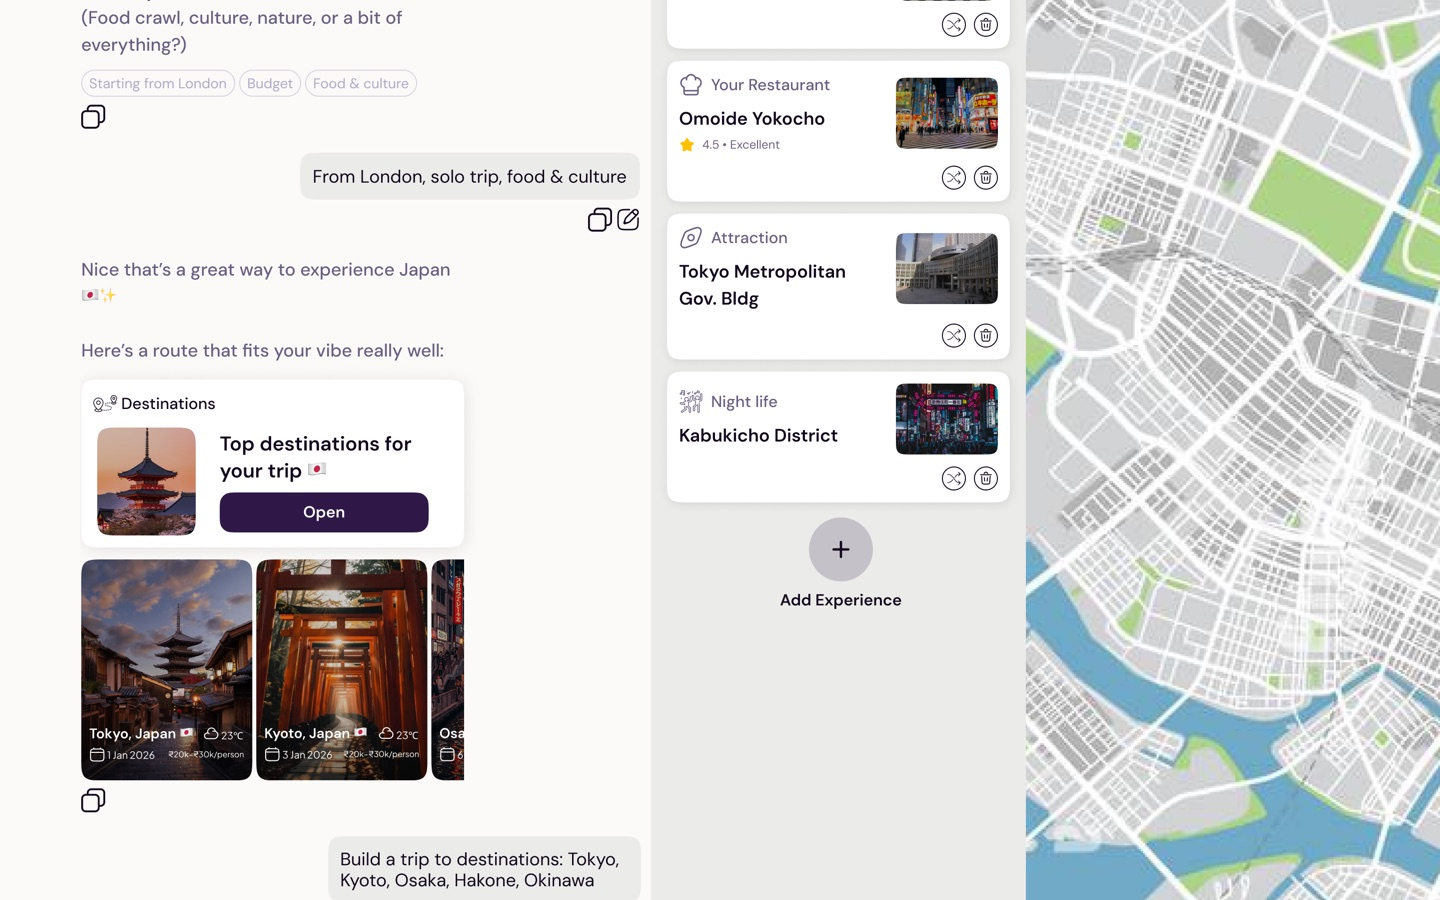
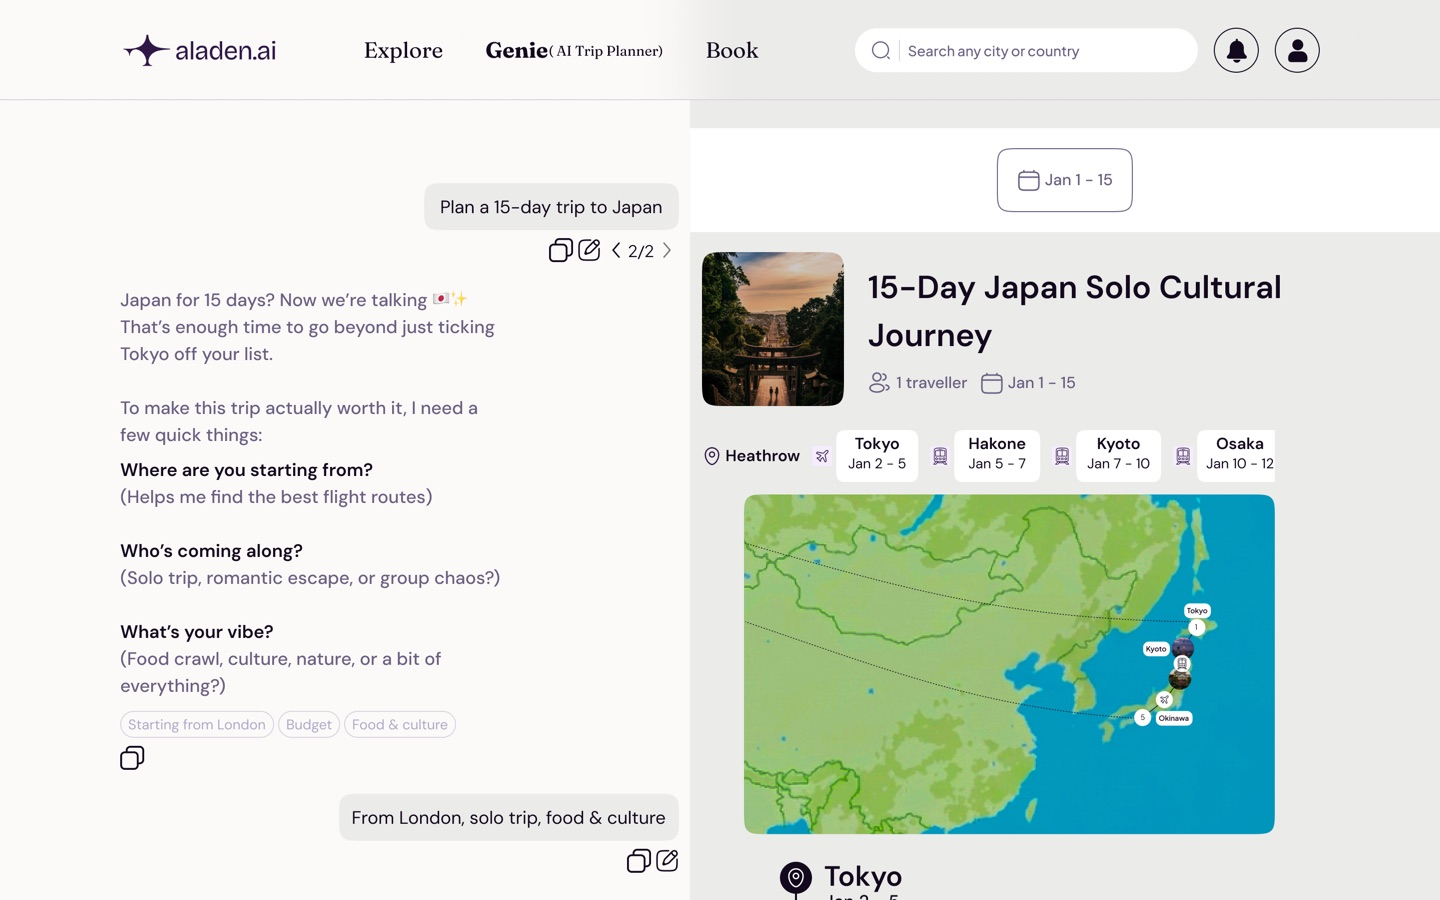
Aladdin: video hero, keep only finished-trip stills, drop prototype link

diff --git a/aladdin.html b/aladdin.html
@@ -60,13 +60,14 @@
         </dl>
       </div>
 
-      <figure class="cs-figure cs-figure--wide">
-        <div class="cs-phones">
-          <div class="cs-device"><img src="work/aladdin/chat.jpg" alt="Genie chat: user asks for a 15-day trip to Japan, Genie asks where they are starting from, who is coming and what their vibe is, with tap-to-answer chips, then offers a destinations card" loading="eager" /></div>
-          <div class="cs-device"><img src="work/aladdin/destinations.jpg" alt="Select destinations screen with Relaxed, Balanced and Fast route options and a stack of destination cards for Tokyo, Kyoto, Osaka, Hakone and more, each with a Select button" loading="eager" /></div>
-          <div class="cs-device"><img src="work/aladdin/overview.jpg" alt="Trip view with a route map at the top and a 15-day itinerary overview listing each day's stops" loading="eager" /></div>
+      <figure class="cs-figure cs-figure--hero">
+        <div class="cs-video-wrap">
+          <video class="cs-video" src="work/aladdin/genie-flow.mp4" poster="work/aladdin/genie-poster.jpg" muted loop playsinline preload="none" aria-label="Screen recording of the Genie prototype: planning a 15-day Japan trip from the first chat message to the finished bookable itinerary"></video>
+          <button type="button" class="cs-video-play" aria-label="Play the prototype walkthrough">
+            <svg width="22" height="22" viewBox="0 0 24 24" fill="currentColor" aria-hidden="true"><path d="M8 5v14l11-7z"/></svg>
+          </button>
         </div>
-        <figcaption>Ask, choose, get a trip. Chat, destination selection and the itinerary overview on iOS. Scroll inside each screen to see the full flow.</figcaption>
+        <figcaption>Eighty seconds through the prototype: one line of intent, three quick questions, a visa check, destinations, stays and routes, and a finished trip ready to book.</figcaption>
       </figure>
     </section>
 
@@ -121,60 +122,32 @@
       </div>
     </section>
 
-    <!-- ================= FLOW VIDEO ================= -->
-    <section class="cs-section" id="flow">
-      <div class="cs-wrap">
-        <h2 class="cs-h2"><span class="cs-num">03</span>The flow, start to finish</h2>
-        <p>Eighty seconds through the prototype: one line of intent, three quick questions, a visa check, destinations, stays and routes, and a finished trip ready to book. The rest of this page explains the decisions behind it.</p>
-      </div>
-      <figure class="cs-figure">
-        <div class="cs-video-wrap">
-          <video class="cs-video" src="work/aladdin/genie-flow.mp4" poster="work/aladdin/genie-poster.jpg" muted loop playsinline preload="none" aria-label="Screen recording of the Genie prototype: planning a 15-day Japan trip from the first chat message to the finished bookable itinerary"></video>
-          <button type="button" class="cs-video-play" aria-label="Play the prototype walkthrough">
-            <svg width="22" height="22" viewBox="0 0 24 24" fill="currentColor" aria-hidden="true"><path d="M8 5v14l11-7z"/></svg>
-          </button>
-        </div>
-        <figcaption>Prototype walkthrough on iOS. <a class="cs-proto-link" href="#" target="_blank" rel="noopener noreferrer"><mark class="todo">paste your Figma prototype share link here</mark> Open the interactive prototype &nearr;</a></figcaption>
-      </figure>
-    </section>
-
     <!-- ================= DECISION 1 ================= -->
     <section class="cs-section" id="decision-1">
       <div class="cs-wrap">
-        <h2 class="cs-h2"><span class="cs-num">04</span>Decision one: visa before itinerary</h2>
+        <h2 class="cs-h2"><span class="cs-num">03</span>Decision one: visa before itinerary</h2>
         <p>The obvious flow is to generate the trip and mention the visa somewhere at the end. It demos beautifully and sets people up to be disappointed. I flipped it. When a destination needs a visa the user doesn't hold, Genie says so before it builds anything, in one sentence, with two chips: "Yes, it's valid" or "No, I don't have one".</p>
         <p>If the answer is no, Genie doesn't stop. It still plans the full trip, and it drops a visa card into the conversation: processing time, maximum stay, passport validity rule, approximate fee, and a Start Application button that opens the official application centre. Most importantly, it does the date maths: "On track for Jan 5. Apply by Dec 12." Then it offers to slot that deadline into the trip timeline.</p>
         <p>Uploading a passport and visas works in the other direction too. Genie unlocks visa-free and visa-on-arrival destinations for that passport, so "where can I go next month?" gets an answer that's actually true for you.</p>
         <p class="cs-alt"><strong>Rejected:</strong> a visa badge on the destination card with a link to a help page. Accurate, but it treats the hardest step of the trip as a footnote and leaves the user to work out the timing alone. <mark class="todo">add anything the founder said about this trade-off</mark></p>
       </div>
-      <figure class="cs-figure">
-        <div class="cs-phones cs-phones--2">
-          <div class="cs-device"><img src="work/aladdin/visa.png" alt="Genie chat: before building the trip Genie says Japan needs a tourist visa for Indian passports and asks if the user has one; after the user says no, Genie shows a visa card with processing time, max stay, passport validity, fee, and a Start Application button, then offers to plan the trip around the visa deadline" loading="lazy" /></div>
-          <div class="cs-device"><img src="work/aladdin/chat.jpg" alt="Genie chat opening: three clarifying questions, starting point, who is coming and vibe, with suggested answer chips" loading="lazy" /></div>
-        </div>
-        <figcaption>Left: the visa check and guidance card, with the application deadline calculated from the trip date. Right: the clarifying questions that follow.</figcaption>
-      </figure>
     </section>
 
     <!-- ================= DECISION 2 ================= -->
     <section class="cs-section" id="decision-2">
       <div class="cs-wrap">
-        <h2 class="cs-h2"><span class="cs-num">05</span>Decision two: chat asks, cards do the heavy lifting</h2>
+        <h2 class="cs-h2"><span class="cs-num">04</span>Decision two: chat asks, cards do the heavy lifting</h2>
         <p>A chat interface is great for intent and terrible for comparison. Nobody wants to pick six cities out of a paragraph. So Genie's conversation stays short and asks only what it needs: where you're starting from, who's coming, what your vibe is, with chips so the answer is one tap. Then it hands off to a card. "Top destinations for your trip. Open."</p>
         <p>Opening the card drops the user into a purpose-built screen: a stack of destination cards with photos, dates and price range, a Relaxed, Balanced or Fast pace toggle that changes the recommended route and stop count, and a Generate Trip button that returns them to the conversation with the choice made. The chat remembers the choice as a message, so the thread stays a readable record of the plan.</p>
         <p>The same pattern repeats for stays, routes, experiences and booking. Chat for intent, cards for decisions, and a Chat / Trip toggle at the bottom so the user can flip between the conversation and the structured plan without losing either.</p>
         <p class="cs-alt"><strong>Why this matters for an AI product:</strong> it keeps the model's job narrow. Genie suggests and explains. The user chooses in an interface built for choosing. Fewer hallucinated bookings, fewer "wait, what did I agree to" moments.</p>
       </div>
-      <figure class="cs-figure cs-figure--wide">
-        <div class="cs-scroll"><img src="work/aladdin/web-day.jpg" alt="Aladdin web: three-pane layout with the Genie chat on the left, the Day 1 itinerary with experience cards in the middle, and a route map on the right" loading="lazy" /></div>
-        <figcaption>On web the pattern becomes three panes: the conversation, the plan, and the map, all live at once. Scroll inside the frame.</figcaption>
-      </figure>
     </section>
 
     <!-- ================= DECISION 3 ================= -->
     <section class="cs-section" id="decision-3">
       <div class="cs-wrap">
-        <h2 class="cs-h2"><span class="cs-num">06</span>Decision three: nothing Genie generates is locked</h2>
+        <h2 class="cs-h2"><span class="cs-num">05</span>Decision three: nothing Genie generates is locked</h2>
         <p>Trust in an AI planner comes from being able to overrule it cheaply. If changing one hotel means regenerating the whole trip, people stop trusting the trip. So every layer of the plan is editable in place.</p>
         <ul class="cs-list">
           <li><strong>Destinations:</strong> select or deselect any stop, or switch the pace and let Genie re-route.</li>
@@ -185,40 +158,36 @@
         </ul>
         <p>The itinerary itself is shown two ways: a scannable overview, one line per day, and a day view with a note, the experiences, and a map with numbered stops. Download and share sit in the header because a trip that lives only inside an app isn't a trip you can send to the person coming with you.</p>
       </div>
-      <figure class="cs-figure">
-        <div class="cs-phones cs-phones--2">
-          <div class="cs-device"><img src="work/aladdin/routes.jpg" alt="Modify Routes sheet: a world map with the route and a vertical list of legs, London to Tokyo by plane, Tokyo to Hakone by train, each with duration and price and a chevron to change it" loading="lazy" /></div>
-          <div class="cs-device"><img src="work/aladdin/stays.png" alt="Select Your Stay Details sheet: a Trip Overview list of six legs with origin, transport icon, destination and date, each removable, with an Apply button" loading="lazy" /></div>
-        </div>
-        <figcaption>Routes and stays are edited in sheets over the conversation, so the user never leaves the plan to change it.</figcaption>
-      </figure>
     </section>
 
     <!-- ================= THE FINISHED TRIP ================= -->
     <section class="cs-section" id="trip">
       <div class="cs-wrap">
-        <h2 class="cs-h2"><span class="cs-num">07</span>The finished trip is one bookable object</h2>
+        <h2 class="cs-h2"><span class="cs-num">06</span>The finished trip is one bookable object</h2>
         <p>Once the user says yes, Genie doesn't hand back a wall of text. It builds the trip as a single structured plan, city by city. Each city block has the arrival (flight or train, with duration and price), the transfer to the hotel, the stay (with rating and nightly rate), the day-by-day itinerary with experiences, and the local transfers between them. Every item keeps its swap and remove controls from the previous section.</p>
         <p>At the bottom sits one button: Book this Trip. Flights, stays and transfers are booked together, and the confirmation, ticket and booking detail follow in the same conversation. Download and share live in the header so the plan can leave the app and reach the people travelling with you. On web the same trip renders as the middle pane, with the chat that produced it still on the left and the route map on the right.</p>
         <p class="cs-alt"><strong>Why one object:</strong> if the plan is a list of separate bookings, every change means re-checking five things. If it is one trip, a change to the dates ripples through flights, stays and transfers together, and the user only has to confirm once.</p>
       </div>
       <figure class="cs-figure cs-figure--wide">
-        <div class="cs-trip">
+        <div class="cs-trip cs-trip--3">
           <div class="cs-device cs-device--tall">
-            <img src="work/aladdin/trip-full.jpg" alt="The complete 15-day Japan trip on iOS: a header with route map and dates, then city blocks for Tokyo, Hakone, Kyoto, Osaka and Okinawa, each with arrival flight or train, transfer, hotel stay, day-by-day itinerary and local transfers, ending in a Book this Trip button" loading="lazy" />
+            <img src="work/aladdin/overview.jpg" alt="Trip view on iOS: route map at the top and the 15-day itinerary overview, one card per day" loading="lazy" />
+          </div>
+          <div class="cs-device cs-device--tall">
+            <img src="work/aladdin/trip-full.jpg" alt="The complete 15-day Japan trip on iOS: city blocks for Tokyo, Hakone, Kyoto, Osaka and Okinawa, each with arrival, transfer, stay, day-by-day itinerary and local transfers, ending in Book this Trip" loading="lazy" />
           </div>
           <div class="cs-scroll cs-scroll--tall">
             <img src="work/aladdin/web-trip.jpg" alt="The same complete trip on web: Genie chat on the left and the full city-by-city plan on the right, with a Book Trip button at the bottom" loading="lazy" />
           </div>
         </div>
-        <figcaption>The complete planned trip on iOS and web. Scroll inside each frame; the whole 15 days are in there, city by city, down to Book this Trip.</figcaption>
+        <figcaption>The planned trip on iOS and web: the day-by-day overview, the full city-by-city plan down to Book this Trip, and the same trip beside the chat on desktop. Scroll inside each frame.</figcaption>
       </figure>
     </section>
 
     <!-- ================= CRAFT ================= -->
     <section class="cs-section" id="craft">
       <div class="cs-wrap">
-        <h2 class="cs-h2"><span class="cs-num">08</span>Craft and system</h2>
+        <h2 class="cs-h2"><span class="cs-num">07</span>Craft and system</h2>
         <ul class="cs-list">
           <li><strong>Genie has a voice.</strong> Warm, a little playful ("Japan for 15 days? Now we're talking"), and direct when it matters ("Before I build it, Japan needs a tourist visa"). The tone was written as part of the design, not left for copy later.</li>
           <li><strong>One system, two platforms.</strong> The iOS flow and the web flow share components, colour and type. On web the chat stays on the left and the cards expand into panes instead of sheets, so nothing has to be relearned.</li>
@@ -226,16 +195,12 @@
           <li><strong>Competitor reference, kept honest.</strong> We mapped Layla's flow screen by screen and used it as the baseline to beat, not to copy. The visa layer and the editable-everything plan are where Genie diverges.</li>
         </ul>
       </div>
-      <figure class="cs-figure cs-figure--wide">
-        <div class="cs-scroll"><img src="work/aladdin/web-overview.jpg" alt="Aladdin web: Genie chat on the left, the 15-day itinerary overview in the middle, and a map with the numbered route on the right" loading="lazy" /></div>
-        <figcaption>The itinerary overview on web, with the route drawn on the map.</figcaption>
-      </figure>
     </section>
 
     <!-- ================= OUTCOME ================= -->
     <section class="cs-section" id="outcome">
       <div class="cs-wrap">
-        <h2 class="cs-h2"><span class="cs-num">09</span>Outcome</h2>
+        <h2 class="cs-h2"><span class="cs-num">08</span>Outcome</h2>
         <p>Version 1 of Genie reached dev-ready on both iOS and web, with a clickable prototype of the chat-to-booking flow and annotated handoff pages. <mark class="todo">add what was built, if anything, and any founder or developer feedback as a quote</mark></p>
         <p>The company wound down before launch, so there are no usage numbers. If it had shipped, these are the ones I'd have watched first:</p>
         <ul class="cs-list">

diff --git a/styles.css b/styles.css
@@ -735,3 +735,5 @@ mark.todo{background:#FFE98A;color:#3A3000;padding:1px 5px;border-radius:4px;fon
 .cs-proto-link{color:var(--plum-charcoal);font-weight:600;margin-left:6px;}
 .cs-proto-link:hover{color:var(--burnt-orange);}
 @media(max-width:560px){.cs-video-wrap,.cs-video{border-radius:32px;}}
+.cs-trip--3{grid-template-columns:minmax(0,1fr) minmax(0,1fr) minmax(0,2.1fr);}
+@media(max-width:960px){.cs-trip--3{grid-template-columns:1fr 1fr;}.cs-trip--3 .cs-scroll{grid-column:1 / -1;}.cs-trip--3 .cs-device{max-width:none;}}
